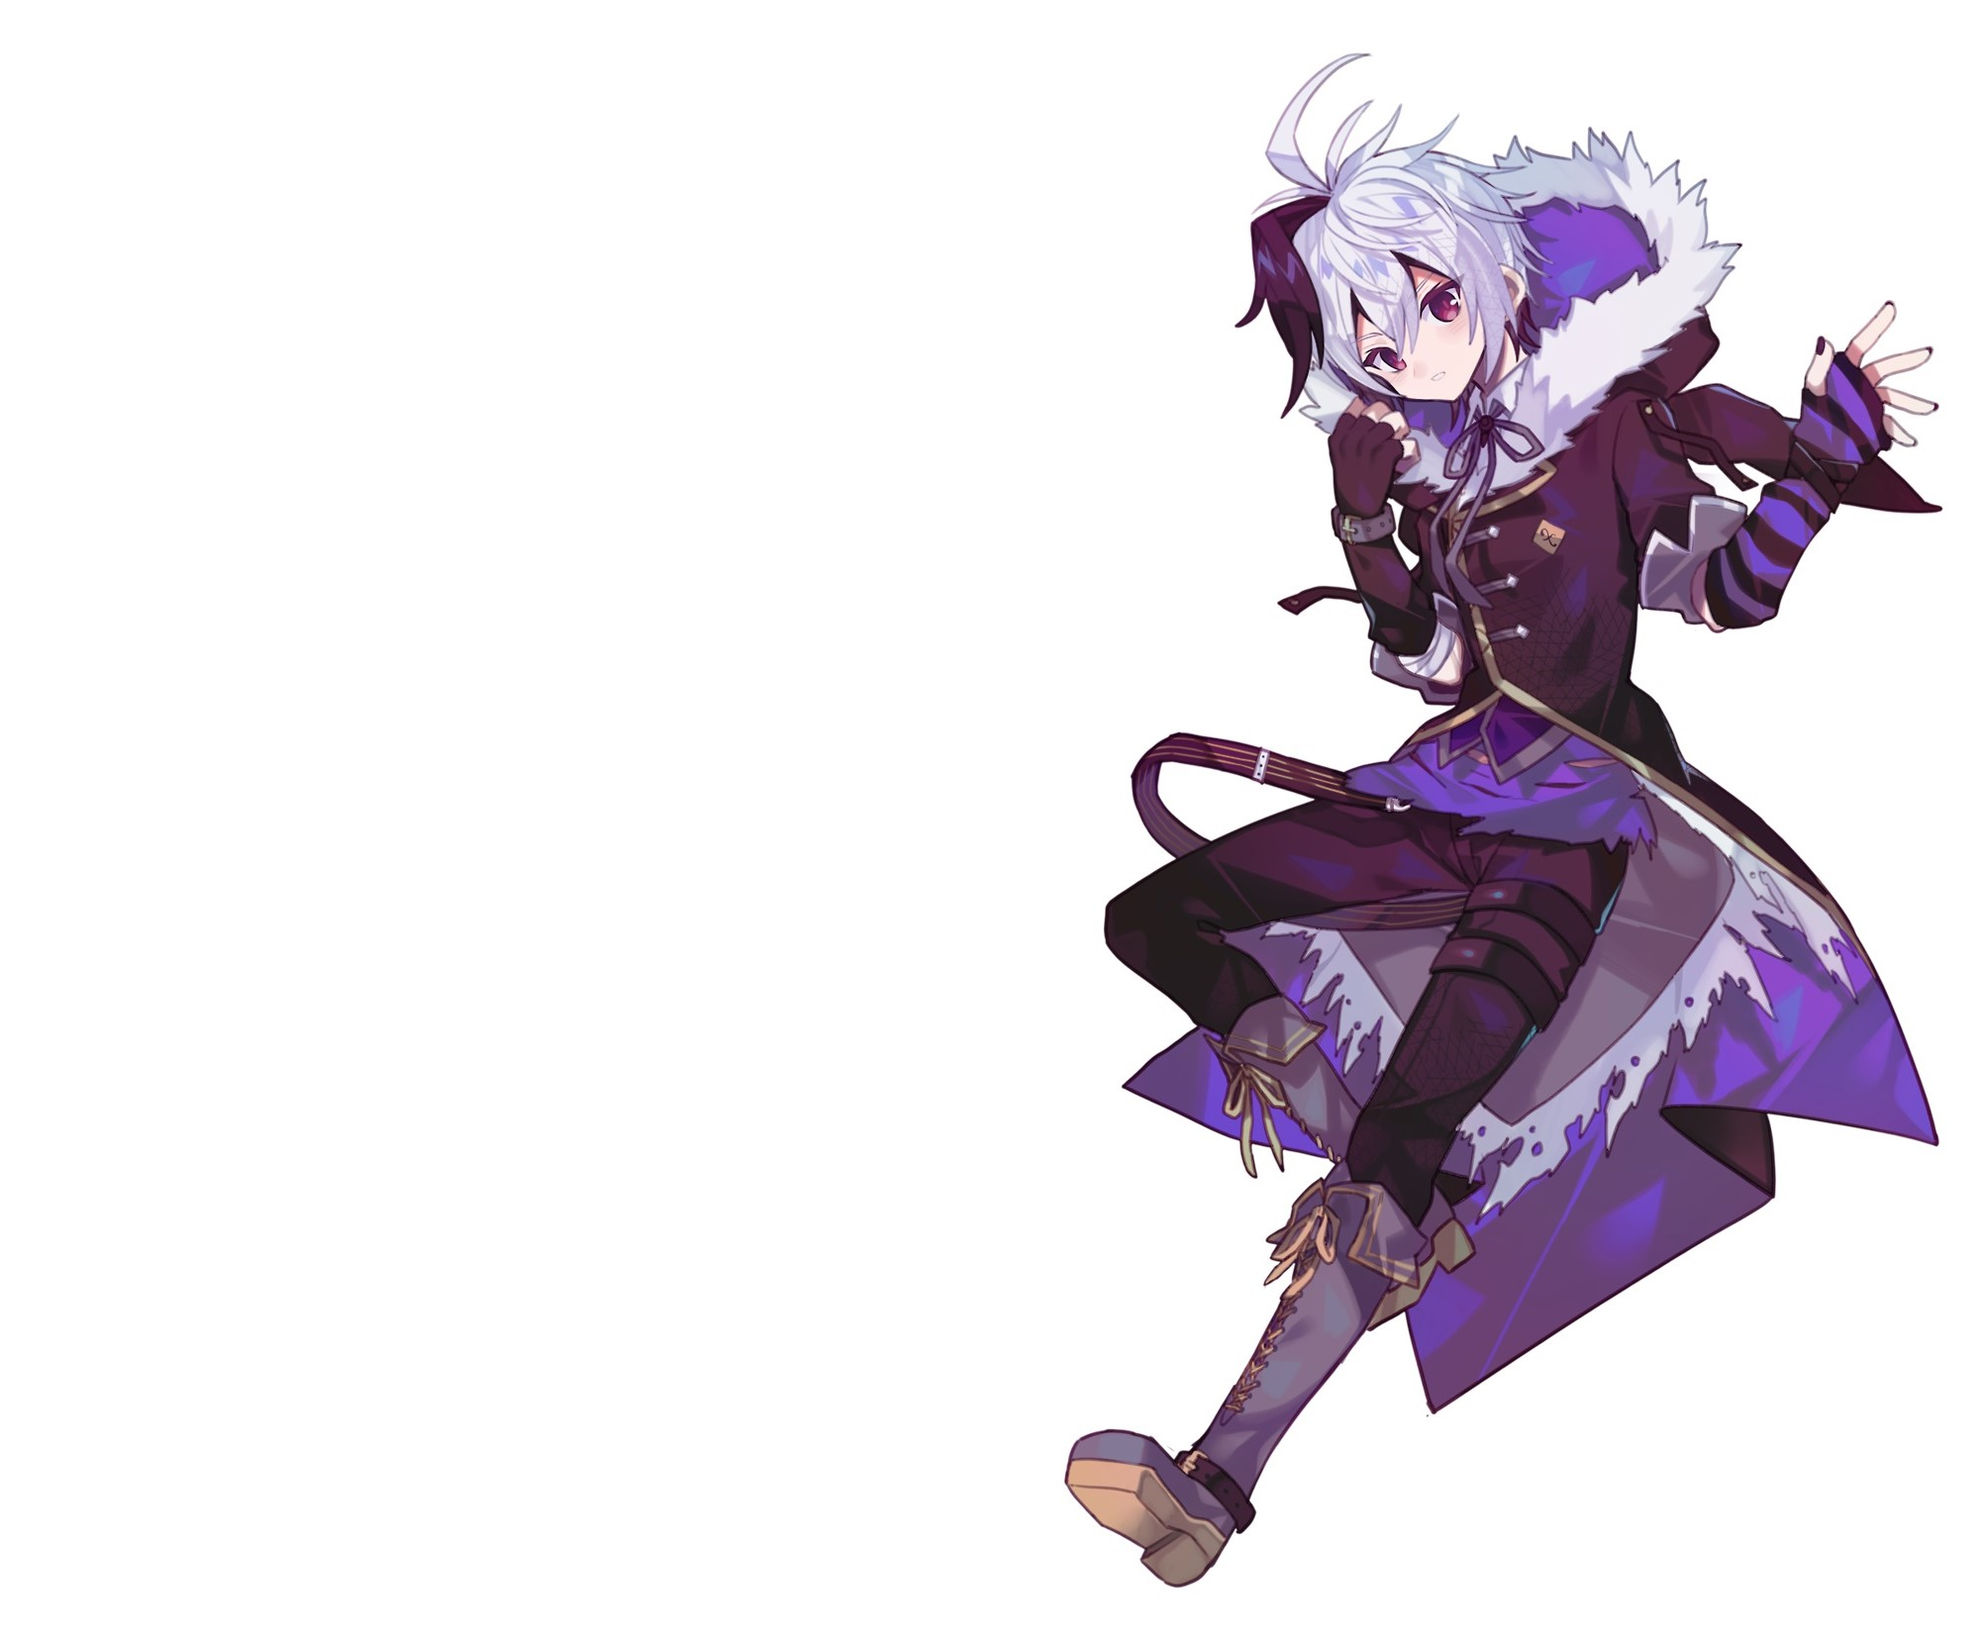
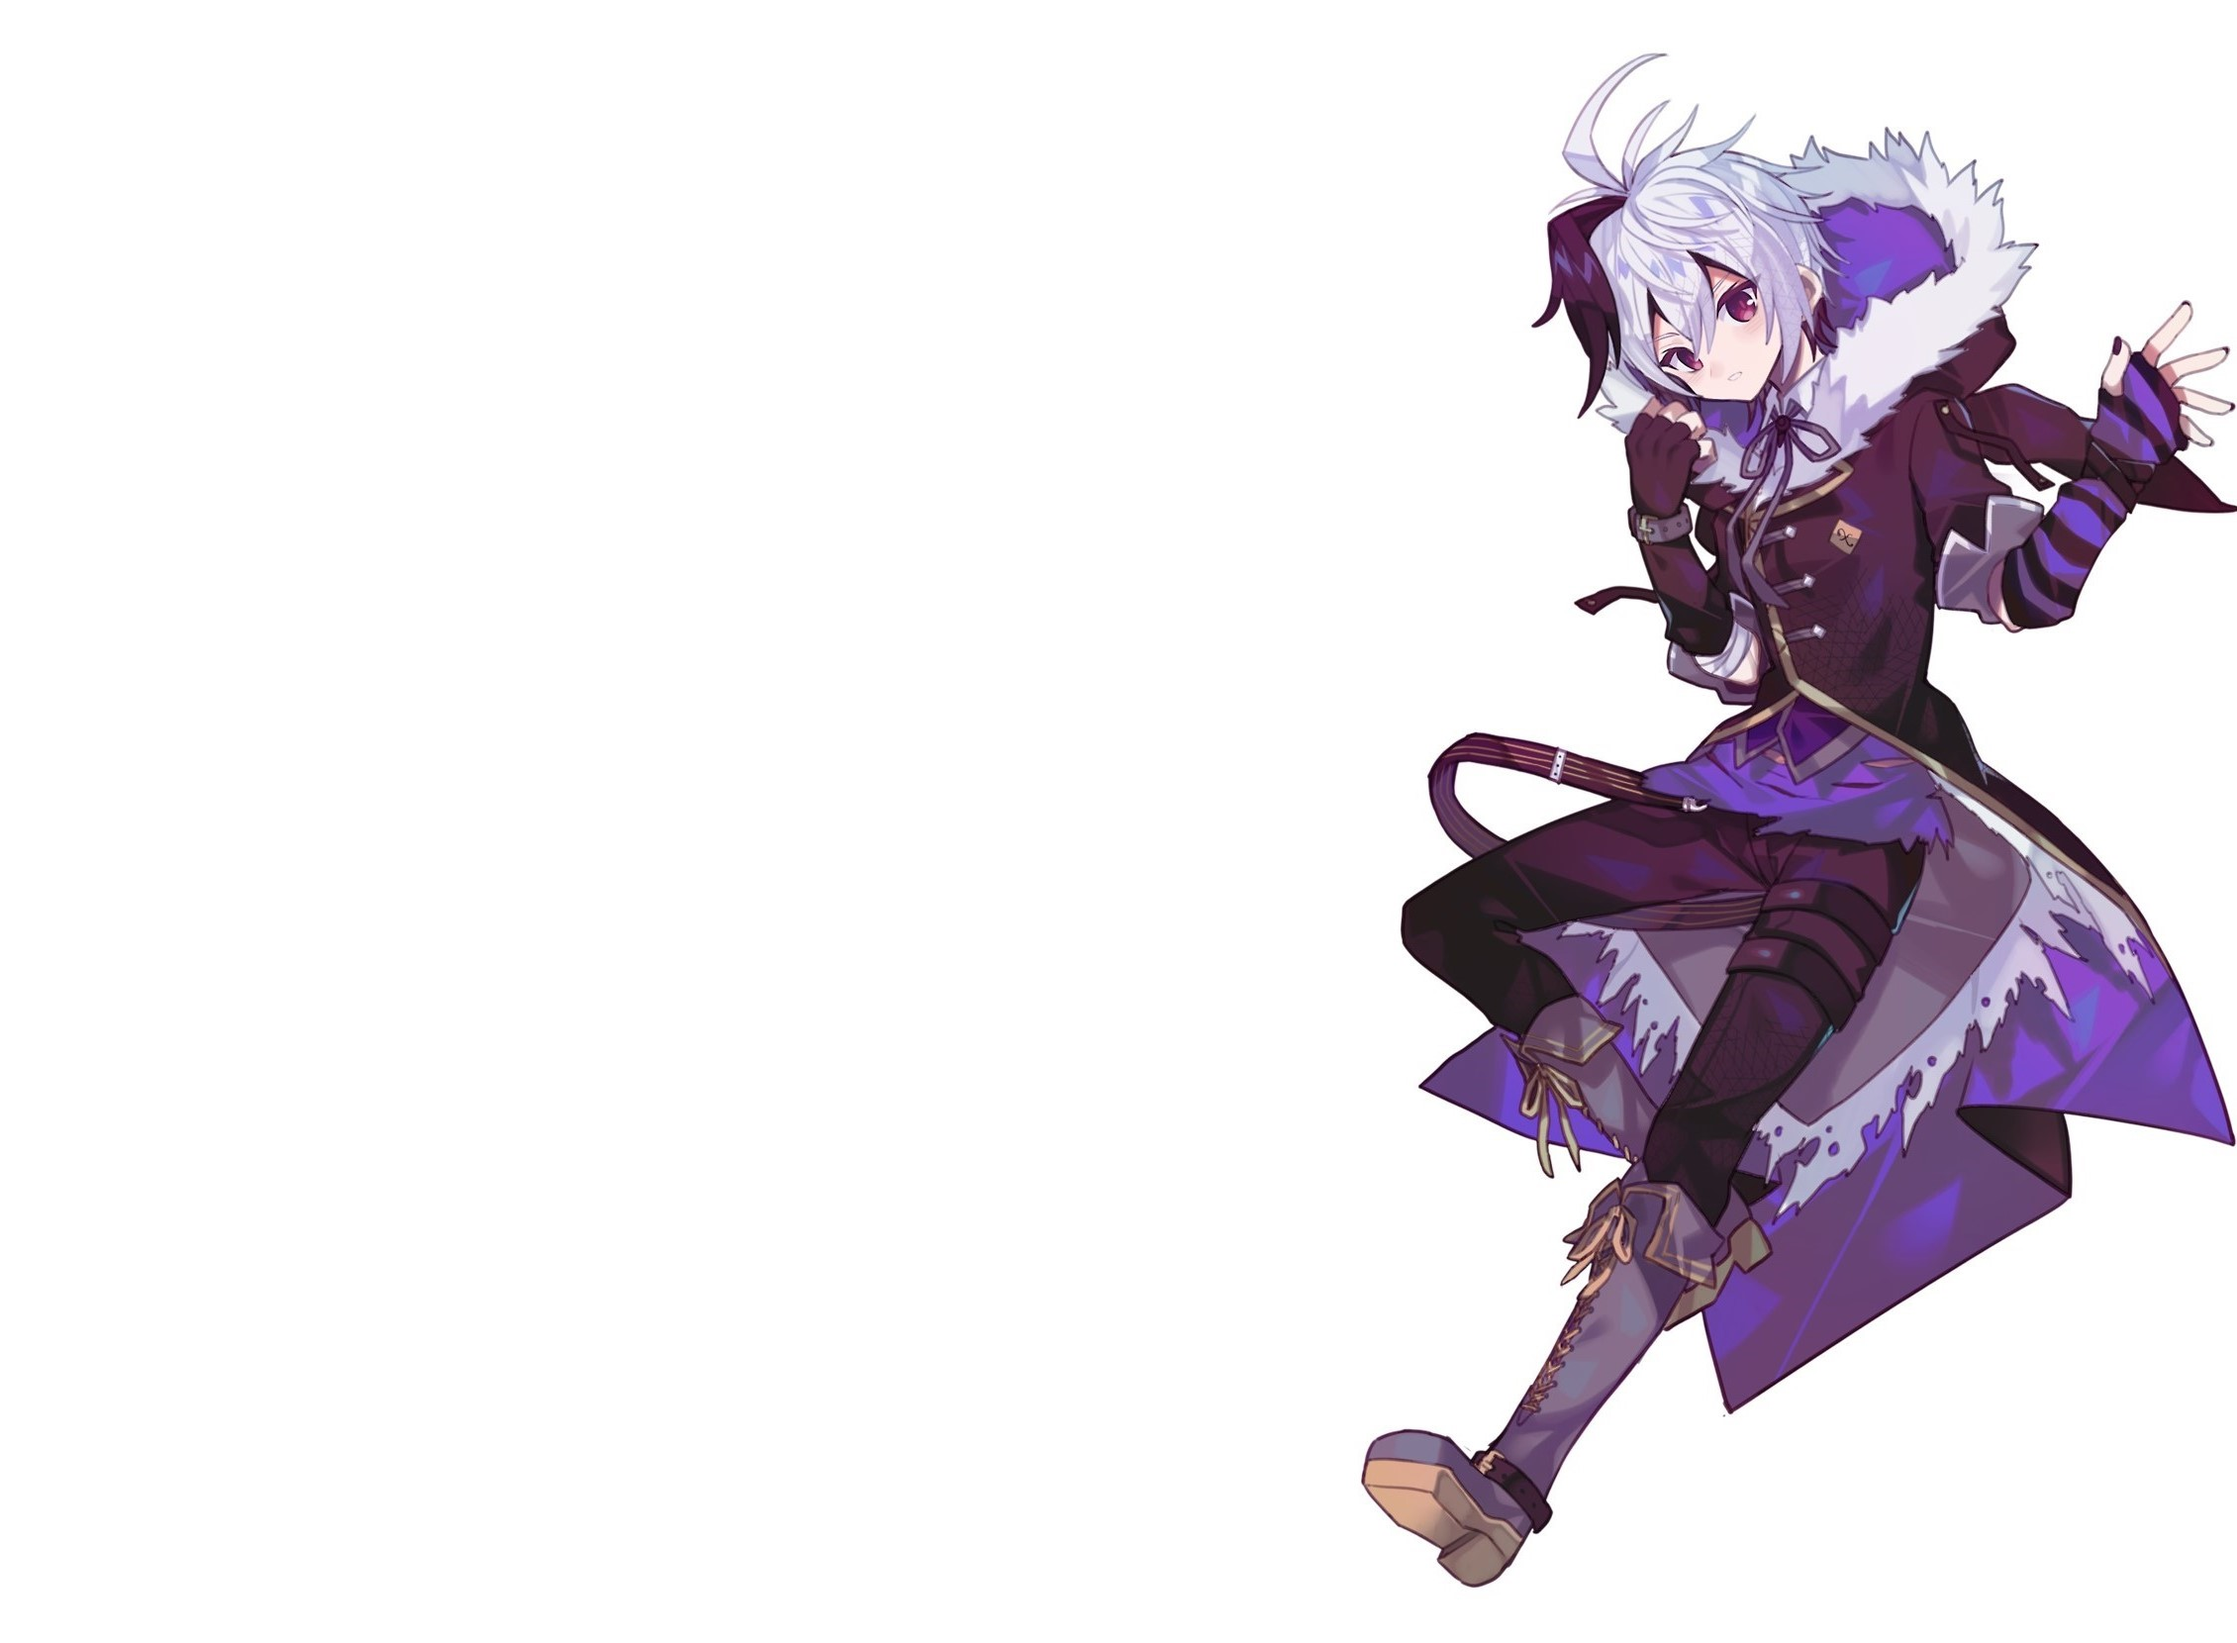
re-position background for workshop with added utils for UI testing

Changed region(s): [[0.527, 0.0307, 1.0, 0.9831]]

diff --git a/src/app/koalibee/koalibee-manage-album/koalibee-manage-album.component.scss b/src/app/koalibee/koalibee-manage-album/koalibee-manage-album.component.scss
@@ -3,27 +3,21 @@
 
 $frame-width: 70%;
 $frame-width-tablet: 75%;
-$frame-width-mobile: 60%;
-$frame-width-mobile-s: 65%;
+$frame-width-mobile: 70%;
+$frame-width-mobile-s: 70%;
 
 #wrapper {
   padding-top: 12vh;
   padding-bottom: 14vh;
   background: url("../../../assets/images/work-mag-bg.jpg");
+  background-position-y: bottom;
   background-size: cover;
-  background-position-x: calc((103vw - 1600px) / 2);
+  background-position-x: calc((101vw - 1600px) / 2);
   @include tablet {
     background-position-x: calc((100vw - 1600px) / 2);
   }
   @include mobile-toggle {
-    background-size: 80%;
-    background-repeat: no-repeat;
-    background-position-y: 60%;
-    background-position-x: 180%;
-  }
-  @include mobile {
-    background-size: 75%;
-    background-position-x: 170%;
+    background: none;
   }
 }
 
@@ -73,36 +67,17 @@ section {
 }
 
 #nowork-frame {
-  min-height: 80vh;
-  padding-top: 16vh;
-  color: #f44336;
+  height: 229px;
+  color: $primary;
   display: flex;
   flex-direction: column;
-  justify-content: flex-start;
-  h1 {
-    font-size: 30px;
-    font-weight: 600;
-    margin-top: 6vh;
-    @include tablet {
-      font-size: 28px;
-    }
-    @include mobile-toggle {
-      text-align: center;
-      font-size: 24px;
-    }
-    @include mobile {
-      font-size: 22px;
-    }
+  justify-content: center;
+  @include mobile-toggle {
+    height: 18vh;
   }
-}
-
-#onework-frame {
-  margin-top: 12vh;
-  color: #f44336;
   h1 {
     font-size: 30px;
     font-weight: 600;
-    margin-top: 6vh;
     @include tablet {
       font-size: 28px;
     }
@@ -118,7 +93,6 @@ section {
 
 #album-list-frame {
   width: $frame-width;
-  min-height: 65vh;
   @include tablet {
     width: $frame-width-tablet;
   }
@@ -204,7 +178,7 @@ section {
   margin-top: 3em;
   display: flex;
   flex-flow: row nowrap;
-  justify-content: space-between;
+  justify-content: space-around;
   @include tablet {
     width: $frame-width-tablet;
   }

diff --git a/src/app/koalibee/koalibee-manage-album/koalibee-manage-album.component.ts b/src/app/koalibee/koalibee-manage-album/koalibee-manage-album.component.ts
@@ -24,11 +24,10 @@ export class KoalibeeManageAlbumComponent implements OnInit {
   allAlbums: Album[];
   currentAlbumList: Album[];
 
-  ALBUMS_PER_PAGE = 3;
+  ALBUMS_PER_PAGE = 1;
   numberOfPages: number;
   currentPage: number;
-  hasWork: boolean;
-  hasOneWork: boolean;
+  hasWork = false;
   ready = false;
 
   albumCreateForm: FormGroup;
@@ -56,6 +55,22 @@ export class KoalibeeManageAlbumComponent implements OnInit {
 
   ngOnInit() {
     this.loadUnfinished();
+    // this.getDummyAlbums(0);
+  }
+
+  // Method for generating testing dummy albums
+  getDummyAlbums(amount: number) {
+    this.allAlbums = [];
+    if (amount > this.ALBUMS_PER_PAGE) {
+      amount = this.ALBUMS_PER_PAGE;
+    }
+    if (amount > 0) {
+      for (let i = 0; i < amount; ++i) {
+        this.allAlbums.push(new Album('dummy', 'dummy', 1, '??'));
+      }
+    }
+    this.refreshAlbums();
+    this.ready = true;
   }
 
   loadUnfinished(): void {
@@ -67,11 +82,6 @@ export class KoalibeeManageAlbumComponent implements OnInit {
         this.numberOfPages = this.allAlbums.length !== 0 ? Math.floor((this.allAlbums.length - 1) / this.ALBUMS_PER_PAGE) + 1 : 1;
         if (this.allAlbums.length > 0) {
           this.hasWork = true;
-          if (this.allAlbums.length === 1) {
-            this.hasOneWork = true;
-          } else {
-            this.hasOneWork = false;
-          }
         } else {
           this.hasWork = false;
         }
@@ -110,11 +120,6 @@ export class KoalibeeManageAlbumComponent implements OnInit {
   refreshAlbums() {
     if (this.allAlbums.length > 0) {
       this.hasWork = true;
-      if (this.allAlbums.length === 1) {
-        this.hasOneWork = true;
-      } else {
-        this.hasOneWork = false;
-      }
     } else {
       this.hasWork = false;
     }

diff --git a/src/app/koalibee/koalibee-manage-album/koalibee-manage-album.component.html b/src/app/koalibee/koalibee-manage-album/koalibee-manage-album.component.html
@@ -5,10 +5,8 @@
   <div id="content">
     <section id="album-list">
       <h2 class="raleway">Unfinished Works</h2>
-      <div id="nowork-frame" *ngIf="!hasWork && ready">
-        <h1 class="exo">You have no albums pending release</h1>
-        <h1 class="exo">Get started by creating an album</h1>
-        <h1 class="exo">Then share it with the world</h1>
+      <div id="nowork-frame" *ngIf="!hasWork">
+        <h1 class="exo" *ngIf="ready">You have no albums pending release</h1>
       </div>
       <div id="album-list-frame" *ngIf="hasWork">
         <mat-card *ngFor="let album of currentAlbumList">
@@ -31,10 +29,6 @@
           </mat-card-title>
           <mat-card-subtitle>{{album.genre.genreName}}</mat-card-subtitle>
         </mat-card>
-        <div id="onework-frame" *ngIf="hasOneWork">
-          <h1 class="exo">You can still add more albums</h1>
-          <h1 class="exo">Create as many as you want</h1>
-        </div>
       </div>
       <div id="nav-btns" *ngIf="hasWork">
         <button mat-raised-button color="primary" (click)="navPrev()" [disabled]="currentPage === 1">

diff --git a/src/app/shared/models/album.ts b/src/app/shared/models/album.ts
@@ -19,4 +19,15 @@ export class Album {
   reviewList: Review[];
   artworkDataUrl: string;
 
+  constructor(
+    albumName: string,
+    artist: string,
+    genreId: number,
+    genreName: string
+  ) {
+    this.albumName = albumName;
+    this.artist = artist;
+    this.genre = new Genre(genreId, genreName);
+  }
+
 }
